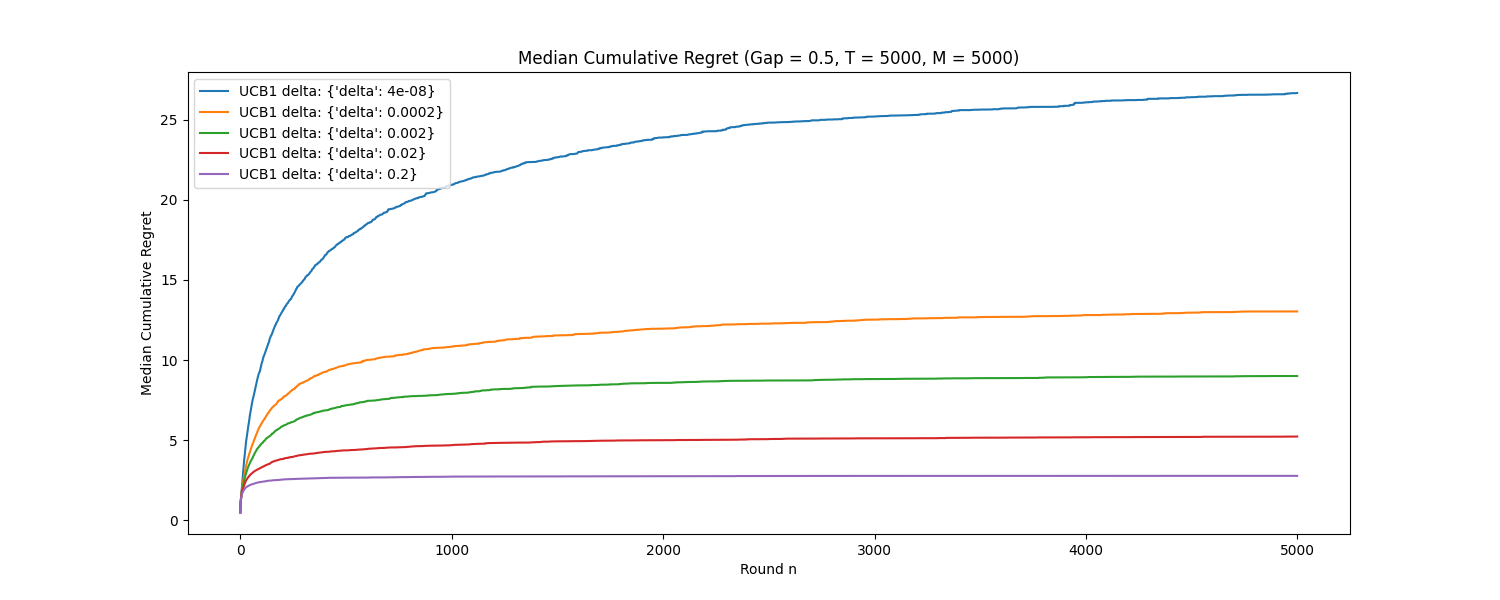
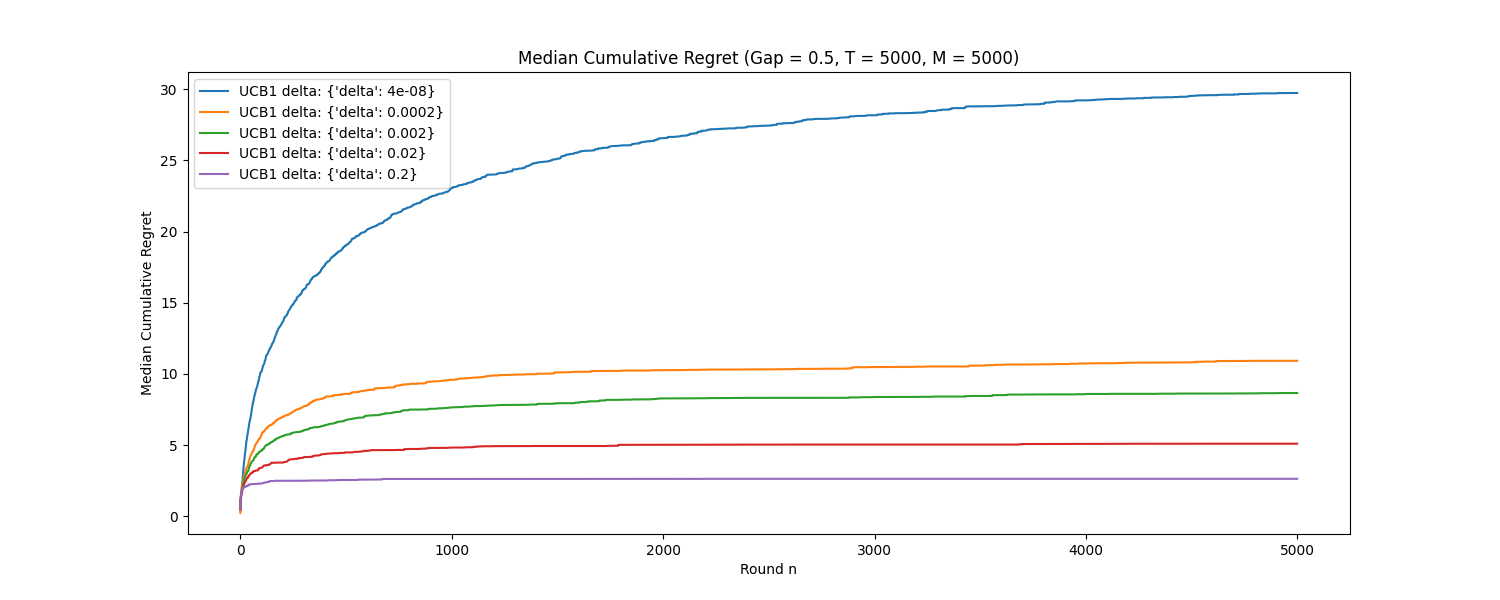
Finish experiment 1

diff --git a/src/data_generating_mechanism/ucb_gap_mechanism.py b/src/data_generating_mechanism/ucb_gap_mechanism.py
@@ -3,29 +3,40 @@ from numpy import random
 from data_generating_mechanism.data_generating_mechanism import Data_Generating_Mechanism
 
 class UCB_Gap_Mechanism(Data_Generating_Mechanism):   
-    def __init__(self, gap, reward_sd, time_horizon, must_update_statistics = True):
+    def __init__(self, gap, reward_sd, time_horizon, prior_samples = 100, prior_repeats = 50, must_update_statistics = True):
         self.d = 2
         self.mustUpdateStatistics = True
         self.gap = gap
         self.reward_sd = reward_sd
+        self.prior_samples = prior_samples
+        self.prior_repeats = prior_repeats
+        self.problems_sampled = np.zeros(shape = (self.prior_samples * self.prior_repeats, 2))
+        self.current_M = self.prior_repeats * self.prior_samples
         super().__init__(time_horizon = time_horizon, 
                          mu_arms = np.zeros(shape = self.d), 
-                         num_runs = time_horizon, 
+                         num_runs = prior_samples * prior_repeats, 
                          init_exploration = 1)
         
     def initialize_parameters(self, hyperparameters):
+        if (self.current_M == self.prior_repeats * self.prior_samples):
+            self.current_M = 0
+            for i in range(self.prior_samples):
+                self.problems_sampled[int(i*self.prior_repeats)][0] = np.random.normal(loc = 0, 
+                                                    scale = self.reward_sd, 
+                                                    size = 1)
+                self.problems_sampled[int(i*self.prior_repeats)][1] = np.random.normal(loc = self.gap, 
+                                                        scale = self.reward_sd, 
+                                                        size = 1)
+                for j in range(1, self.prior_repeats):
+                    self.problems_sampled[int(i*self.prior_repeats + j)][0] = self.problems_sampled[int(i*self.prior_repeats)][0]
+                    self.problems_sampled[int(i*self.prior_repeats + j)][1] = self.problems_sampled[int(i*self.prior_repeats)][1]
         self.mean_estimates = np.zeros(shape = self.d)
         self.num_times_arm = np.zeros(shape = self.d)
         self.mu_arms = np.zeros(shape = self.d)
         self.delta = hyperparameters['delta']
-        # the first arm is optimal
-        self.mu_arms[0] = np.random.normal(loc = 0, 
-                                               scale = self.reward_sd, 
-                                               size = 1)
-        for i in range(1, self.d):
-            self.mu_arms[i] = np.random.normal(loc = self.gap, 
-                                               scale = self.reward_sd, 
-                                               size = 1)
+        self.mu_arms[0] = self.problems_sampled[self.current_M][0]
+        self.mu_arms[1] = self.problems_sampled[self.current_M][1]
+        self.current_M += 1
 
     def get_optimal_arm_mean(self):
         return np.max(self.mu_arms)

diff --git a/scripts/stat_900_experiment_1.py b/scripts/stat_900_experiment_1.py
@@ -17,6 +17,7 @@ np.random.seed(0)
 HIGH_GAP = 2.00
 MEDIUM_GAP = 0.5
 LOW_GAP = 0.05
+VERY_LOW_GAP = 0.005
 T = 5000
 
 print("High Gap Experiment")
@@ -54,5 +55,16 @@ partial_info_ground = Partial_Info_Play_Ground(bandit_algorithms=[Linear_Gaussia
                                               hyperparameters=[ucb_hyperparameters],
                                               plot_label = "Linear-Gaussian-UCB",
                                               plot_directory = "/Users/sidbajaj/MultiArmedBandits/results/stat_900_low/",
+                                              gap=LOW_GAP)
+partial_info_ground.plot_results()
+
+print("Very Low Gap Experiment")
+
+# Low Gap 2-armed experiment
+data_job = UCB_Gap_Mechanism(gap = VERY_LOW_GAP, reward_sd=1, time_horizon=T)
+partial_info_ground = Partial_Info_Play_Ground(bandit_algorithms=[Linear_Gaussian_UCB(data_job, "UCB1")],
+                                              hyperparameters=[ucb_hyperparameters],
+                                              plot_label = "Linear-Gaussian-UCB",
+                                              plot_directory = "/Users/sidbajaj/MultiArmedBandits/results/stat_900_vlow/",
                                               gap=LOW_GAP)
 partial_info_ground.plot_results()
